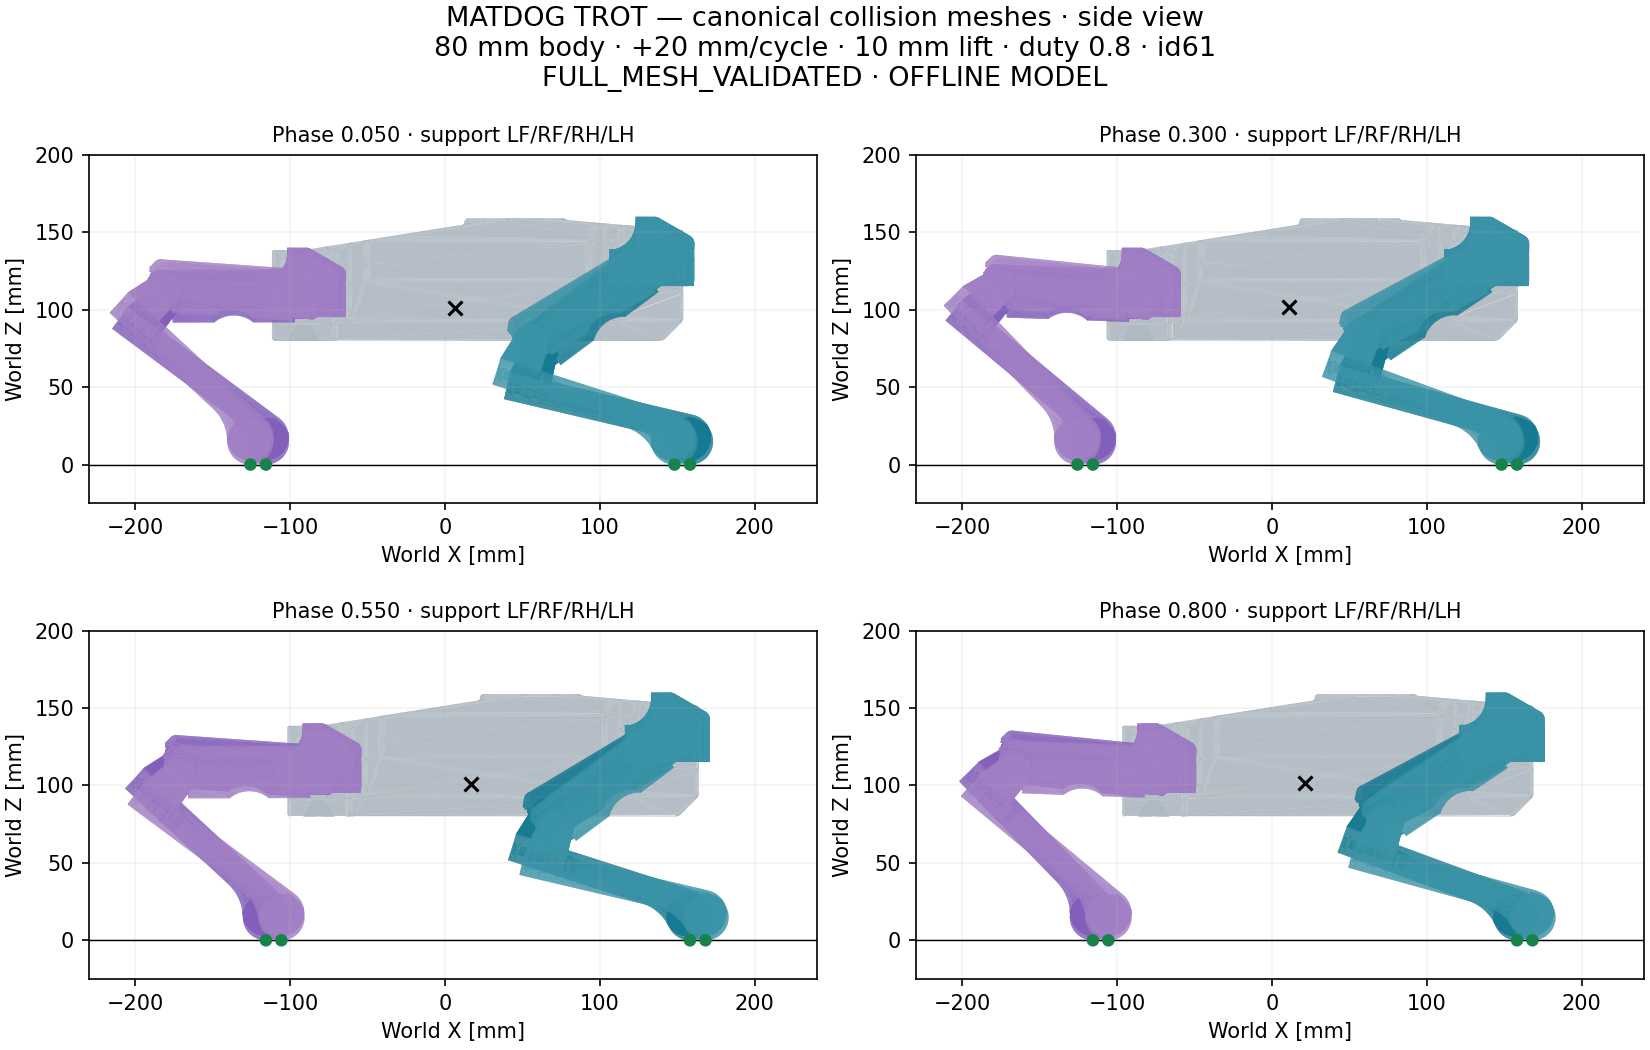
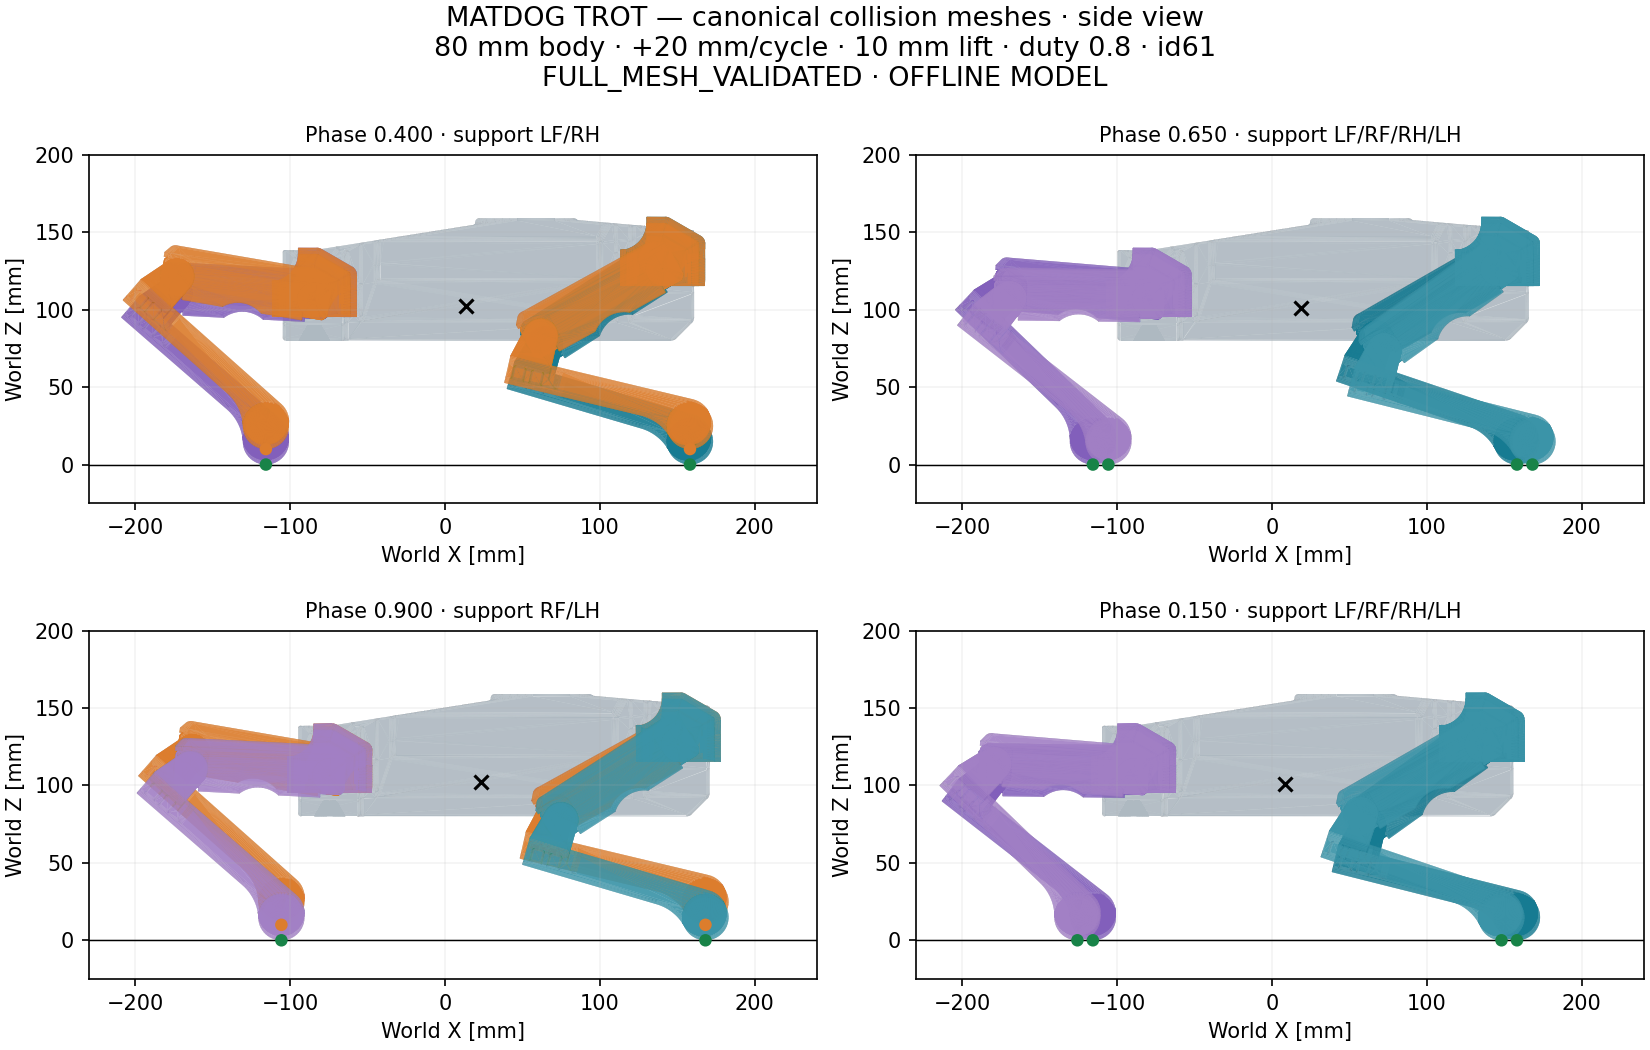
G4: choose view snapshots from leg phases so TROT views show diagonal swings
The fixed snapshot phases showed no swinging leg for the duty-0.8 TROT
representative. Snapshots are now mid-swing of each leg or diagonal pair.

diff --git a/06_Software/Matdog_Core/gait_audit/render.py b/06_Software/Matdog_Core/gait_audit/render.py
@@ -10,7 +10,17 @@ sys.path.insert(0,str(ROOT/'06_Software/Matdog_Core/pose_audit'))
 from model import Model,LEGS
 OUT=ROOT/'09_Logs/Validation_Reports/G4_Gait_Envelope'
 COLORS=['#167b92','#3b94a8','#825fbb','#a280c5']
-SNAPSHOTS={0:(1.15,1.4,1.65,1.9),1:(1.05,1.3,1.55,1.8)}  # WALK: mid-swing of RH/RF/LH/LF; TROT: all-stance and each diagonal pair mid-swing
+def snapshots(frames,duty,kind):
+ # Frames chosen from the leg phases, so the views show swings for any duty factor.
+ # WALK: mid-swing of RH, RF, LH, LF. TROT: mid-swing of each diagonal pair and an all-stance frame between them.
+ def mid(i):
+  swing=[f for f in frames if not f['leg_phase'][i][1]]
+  return min(swing,key=lambda f:abs((f['leg_phase'][i][0]-duty)/(1-duty)-.5))
+ near=lambda s:min(frames,key=lambda f:abs(f['phase']-s))
+ if kind==0:return [mid(LEGS.index(l)) for l in ('rh','rf','lh','lf')]
+ b,a=mid(LEGS.index('rf')),mid(LEGS.index('lf'))  # RF+LH then LF+RH within one cycle
+ after=(a['phase']+b['phase']+1)/2
+ return [b,near((a['phase']+b['phase'])/2),a,near(after-1 if after>2 else after)]
 def representative(entry):
  # Only an explicitly recorded, audited representative may be rendered; a failed candidate is refused.
  case=next(c for c in json.loads((OUT/entry['frames_source']).read_text())['cases'] if c['id']==entry['id'])
@@ -20,7 +30,7 @@ def main():
  reps=json.loads((OUT/'representatives.json').read_text())['representatives'];model=Model();(OUT/'views').mkdir(exist_ok=True)
  for entry in reps:
   kind=0 if entry['type']=='WALK' else 1;name=entry['name'];r=representative(entry);p=r['parameters']
-  frames=r['frames'];chosen=[min(frames,key=lambda f:abs(f['phase']-s)) for s in SNAPSHOTS[kind]]
+  frames=r['frames'];chosen=snapshots(frames,p['duty'],kind)
   caption=f"{p['height_m']*1000:.0f} mm body · {p['advance_x_m']*1000:+.0f} mm/cycle · {p['lift_m']*1000:.0f} mm lift · duty {p['duty']:g} · id{entry['id']}\n{entry['status']}"
   for axes,label in (((0,2),'side'),((0,1),'top')):
    fig,axs=plt.subplots(2,2,figsize=(11,7),layout='constrained');fig.suptitle(f'MATDOG {name.upper()} — canonical collision meshes · {label} view\n{caption} · OFFLINE MODEL',fontsize=13)
